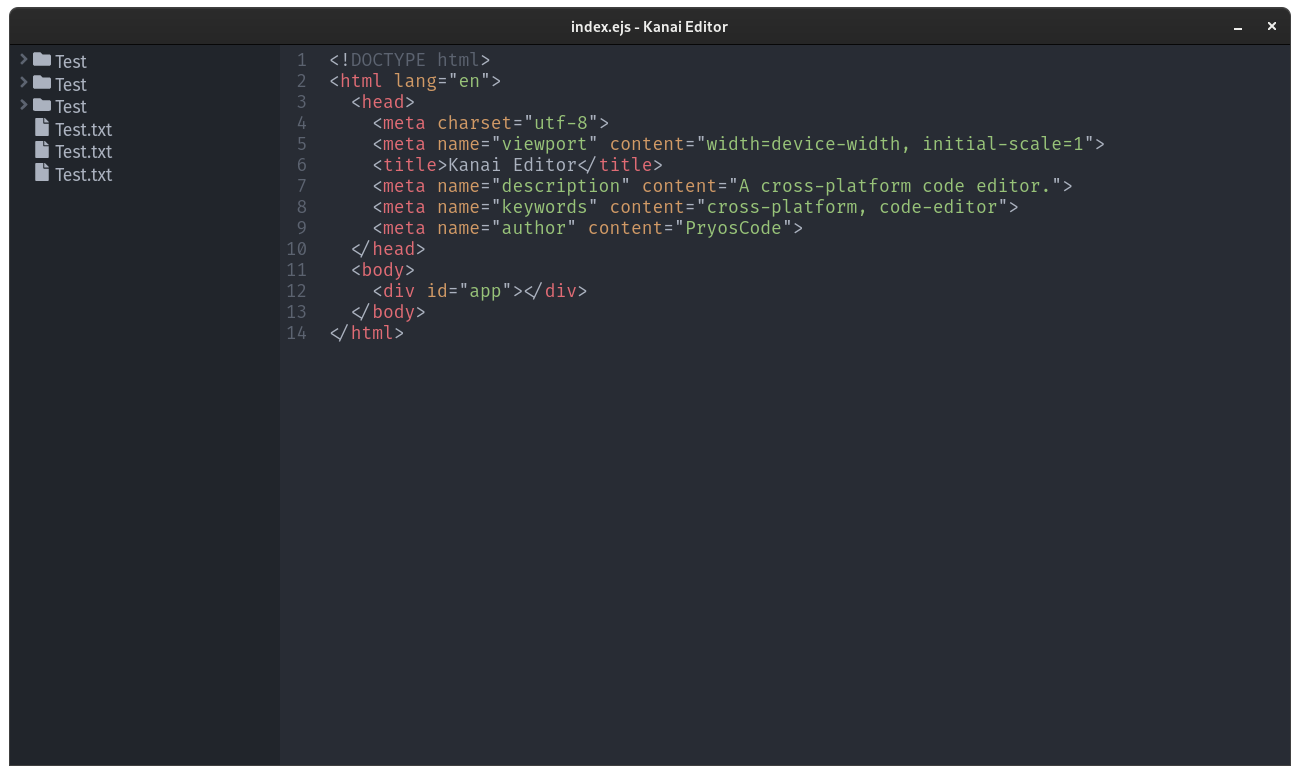
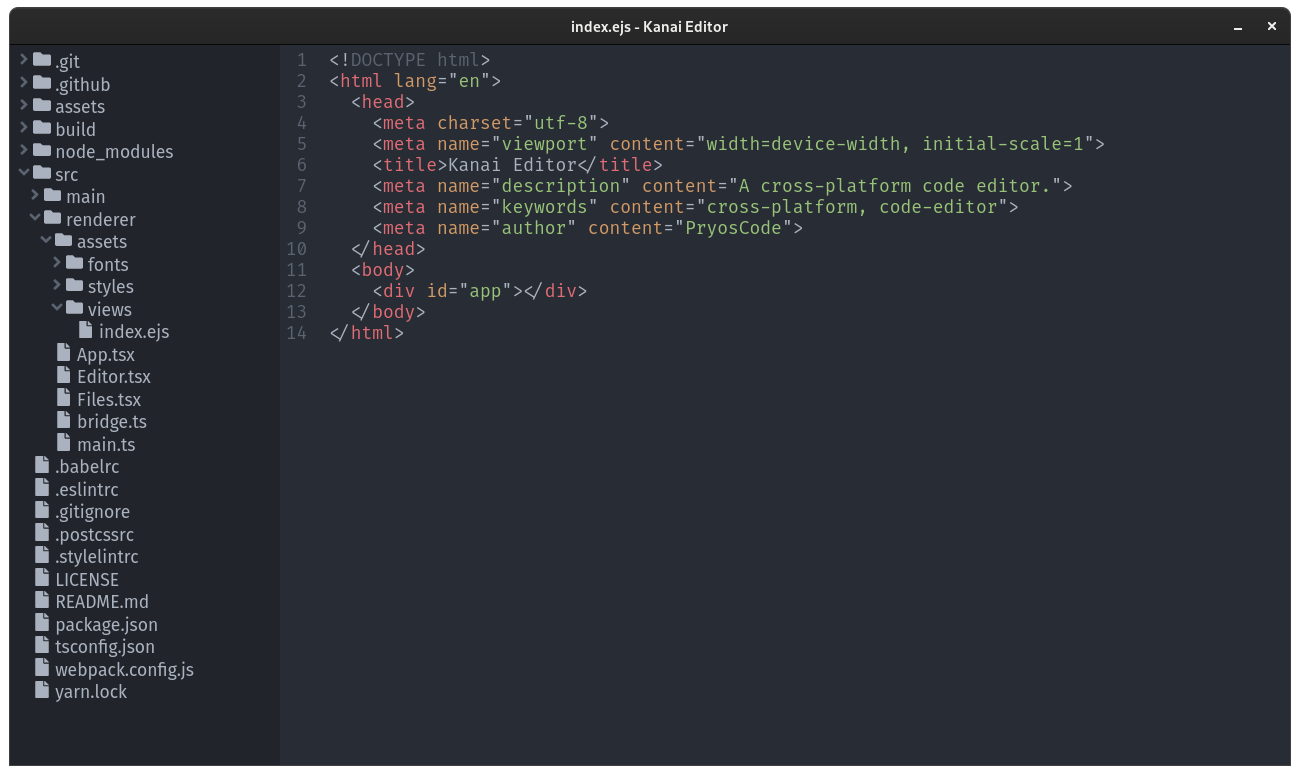
Add Files

Changed region(s): [[0.0, 0.0619, 0.1538, 0.8981]]

diff --git a/src/renderer/Files.tsx b/src/renderer/Files.tsx
@@ -1,5 +1,7 @@
 import React from "react";
+import { ipcRenderer } from "electron";
 import { FaFolder, FaFile, FaAngleRight, FaAngleDown } from "react-icons/fa";
+import { subject } from "./bridge";
 import "./assets/styles/Files.less";
 
 type Entity = {
@@ -8,27 +10,17 @@ type Entity = {
   files?: Entity[]
 };
 
-export default class Files extends React.Component<unknown, { files: Entity[] }> {
+export default class Files extends React.Component<{ workspace: string }, { files: Entity[] }> {
   constructor(props) {
     super(props);
     this.state = {
-      files: [
-        { name: "Test", path: "Test/", files: [
-          { name: "Test", path: "Test/Test/", files: [] },
-          { name: "Test", path: "Test/Test/", files: [
-            { name: "Test", path: "Test/", files: [] },
-            { name: "Test.txt", path: "Test/Test/Test.txt" }
-          ]}
-        ]},
-        { name: "Test", path: "Test/", files: [
-          { name: "Test.txt", path: "Test/Test.txt" }
-        ]},
-        { name: "Test", path: "Test/", files: [] },
-        { name: "Test.txt", path: "Test.txt" },
-        { name: "Test.txt", path: "Test.txt" },
-        { name: "Test.txt", path: "Test.txt" }
-      ]
+      files: []
     };
+  }
+  componentDidMount() {
+    ipcRenderer.invoke("list", this.props.workspace).then((data) => {
+      this.setState({ files: data.files })
+    });
   }
   render() {
     return (
@@ -45,7 +37,7 @@ export default class Files extends React.Component<unknown, { files: Entity[] }>
 
 class File extends React.Component<Entity, unknown> {
   handleClick(event: React.MouseEvent<HTMLElement>) {
-    console.log(event.currentTarget.dataset.path);
+    subject.next(event.currentTarget.dataset.path);
   }
   render() {
     return (

diff --git a/src/main/main.ts b/src/main/main.ts
@@ -102,6 +102,8 @@ app.on("window-all-closed", () => {
   if (process.platform !== "darwin") app.quit();
 });
 
+// Editor
+
 ipcMain.handle("read", (_: IpcMainInvokeEvent, file: string) => {
   return {
     name: path.basename(file),
@@ -123,4 +125,45 @@ ipcMain.on("writeAs", (event: IpcMainEvent, content: string) => {
       event.reply("open", file);
     }
   });
+});
+
+// Files
+
+type Entity = {
+  name: string,
+  path: string,
+  files?: Entity[]
+};
+
+const readDir = (file: string) => {
+  const files: Entity[] = [];
+  fs.readdirSync(file, "utf-8")
+  .sort((a, b) => {
+    const aDir = fs.lstatSync(path.join(file, a)).isDirectory();
+    const bDir = fs.lstatSync(path.join(file, b)).isDirectory();
+    if (!aDir && bDir) return 1;
+    if (aDir && !bDir) return -1;
+    return 0;
+  })
+  .forEach((f) => {
+    const p = path.join(file, f);
+    if (fs.lstatSync(p).isDirectory()) {
+      files.push({
+        name: path.basename(f),
+        path: p,
+        files: readDir(p)
+      });
+    } else {
+      files.push({
+        name: path.basename(f),
+        path: p
+      });
+    }
+  });
+  return files;
+};
+
+ipcMain.handle("list", (_: IpcMainInvokeEvent, file: string) => {
+  const files: Entity[] = readDir(file);
+  return { files };
 });

diff --git a/src/renderer/App.tsx b/src/renderer/App.tsx
@@ -2,10 +2,12 @@ import React from "react";
 import { ipcRenderer } from "electron";
 import Files from "./Files";
 import Editor from "./Editor";
+import { subject } from "./bridge";
 import "./assets/styles/App.less";
 import "./assets/styles/Fonts.less";
 
 export default class App extends React.Component<unknown, { path: string }> {
+  private subscription;
   constructor(props) {
     super(props);
     this.state = {
@@ -13,14 +15,16 @@ export default class App extends React.Component<unknown, { path: string }> {
     };
   }
   componentDidMount() {
-    ipcRenderer.on("open", (_, path) => {
-      this.setState({ path });
-    });
+    ipcRenderer.on("open", (_, path) => this.setState({ path }));
+    this.subscription = subject.subscribe((path) => this.setState({ path: path.toString() }));
+  }
+  componentWillUnmount() {
+    this.subscription.unsubscribe();
   }
   render() {
     return (
       <>
-        <Files/>
+        <Files workspace="."/>
         <Editor file={this.state.path}/>
       </>
     );

diff --git a/webpack.config.js b/webpack.config.js
@@ -6,6 +6,7 @@ const StylelintPlugin = require("stylelint-webpack-plugin");
 module.exports = {
   entry: "./src/renderer/main.ts",
   target: "electron-renderer",
+  devtool: "source-map",
   output: {
     path: path.join(__dirname, "build", "renderer"),
     filename: "bundle.js"

diff --git a/src/renderer/assets/styles/Files.less b/src/renderer/assets/styles/Files.less
@@ -8,6 +8,7 @@
   padding: 5px;
   overflow: auto;
   font-family: @fontSans, sans-serif;
+  white-space: nowrap;
 
   .caret {
     color: @foregroundDark;

diff --git a/src/renderer/bridge.ts b/src/renderer/bridge.ts
@@ -1,0 +1,3 @@
+import { Subject } from "rxjs";
+
+export const subject = new Subject();
